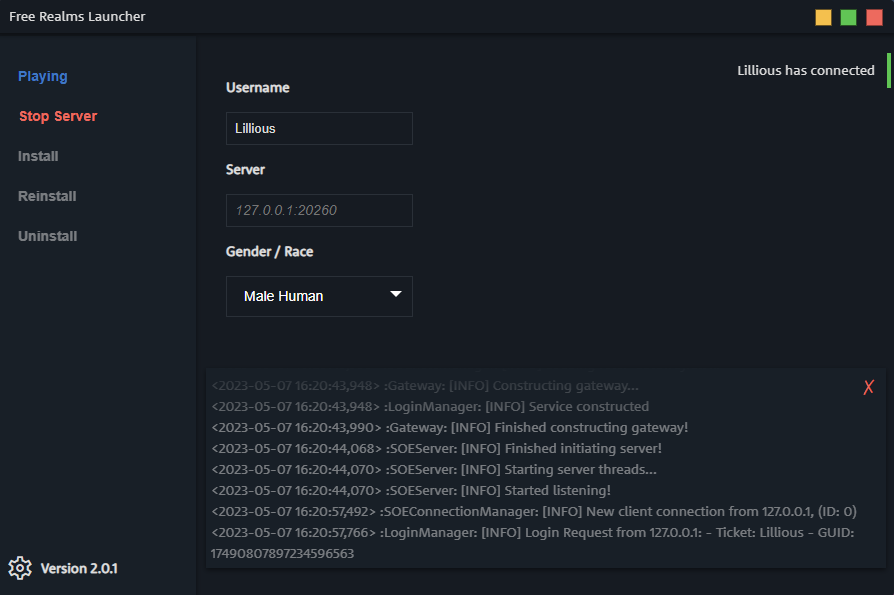
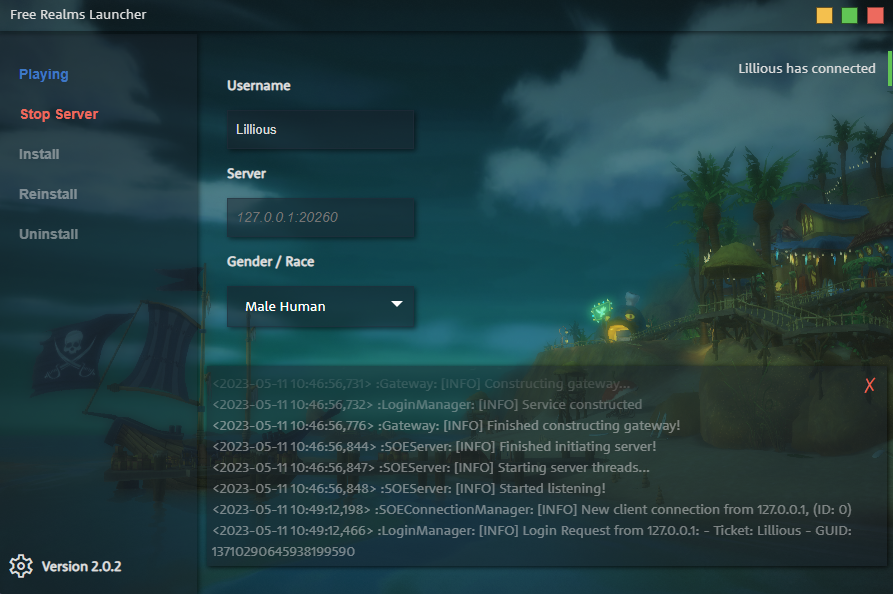
v2.0.2

diff --git a/src/www/js/script.js b/src/www/js/script.js
@@ -7,12 +7,64 @@ const { exec } = require('child_process');
 const close = document.getElementById('close');
 const minimize = document.getElementById('minimize');
 const maximize = document.getElementById('maximize');
-close.addEventListener('click', () => {
-    exec('taskkill /IM OSFRServer.exe /F', (err, stdout, stderr) => {
-        if (err) {
-            Notification.show('error', 'Failed to stop server');
+// Busy flag to prevent unwanted actions while the application is busy
+var busy = false;
+
+const Notification = {
+    show(mode, message, verbose) {
+        if (verbose) return log(mode, message);
+        log(mode, message);
+        const container = document.getElementById('content');
+        const NotificationContainer = document.createElement('div');
+        const NotificationContent = document.createElement('div');
+        NotificationContainer.classList.add('notification-bar');
+        NotificationContent.classList.add('notification-content');
+        NotificationContent.innerHTML = message;
+        NotificationContainer.appendChild(NotificationContent);
+        NotificationContainer.style.marginTop = `${50 * document.getElementsByClassName('notification-bar').length}px`;
+        switch (mode) {
+            case 'success':
+                NotificationContainer.style.borderRight = '4px solid #61c555';
+                break;
+            case 'error':
+                NotificationContainer.style.borderRight = '4px solid #ed6a5e';
+                break;
+            case 'information':
+                NotificationContainer.style.borderRight = '4px solid #3f78c4';
+                break;
+            case 'warn':
+                NotificationContainer.style.borderRight = '4px solid #f4c04e';
+                break;
+            default:
+                NotificationContainer.style.borderRight = '4px solid #3f78c4';
+                break;
         }
-        Notification.show('success', 'Server stopped');
+        container.appendChild(NotificationContainer);
+        this.clear(NotificationContainer);
+    },
+    clear(notification) {
+        setTimeout(() => {
+            const notifications = document.getElementsByClassName('notification-bar');
+            for (let i = 0; i < notifications.length; i++) {
+                notifications[i].style.marginTop = `${50 * i - 50}px`;
+            }
+            notification.remove();
+        }, 3000);
+    }
+}
+
+// Prevent abnormal closing of the application
+window.addEventListener('keydown', (e) => {
+    const { key, altKey } = e;
+    if (key === 'F4' && altKey) {
+        e.preventDefault();   
+        Notification.show('warn', 'User attempted to close the application abnormally', true);
+    }
+});
+close.addEventListener('click', () => {
+    if (busy) return Notification.show('error', 'Application is busy, please wait');
+    exec('taskkill /IM OSFRServer.exe /F', (err, stdout, stderr) => {
+        Notification.show('information', 'Application has been closed peacefully', true);
         ipcRenderer.send('close');
     });
 });
@@ -139,48 +191,6 @@ setInterval(() => {
     CheckRunning();
 }, 1000);
 
-const Notification = {
-    show(mode, message) {
-        log(mode, message);
-        const container = document.getElementById('content');
-        const NotificationContainer = document.createElement('div');
-        const NotificationContent = document.createElement('div');
-        NotificationContainer.classList.add('notification-bar');
-        NotificationContent.classList.add('notification-content');
-        NotificationContent.innerHTML = message;
-        NotificationContainer.appendChild(NotificationContent);
-        NotificationContainer.style.marginTop = `${50 * document.getElementsByClassName('notification-bar').length}px`;
-        switch (mode) {
-            case 'success':
-                NotificationContainer.style.borderRight = '4px solid #61c555';
-                break;
-            case 'error':
-                NotificationContainer.style.borderRight = '4px solid #ed6a5e';
-                break;
-            case 'information':
-                NotificationContainer.style.borderRight = '4px solid #3f78c4';
-                break;
-            case 'warn':
-                NotificationContainer.style.borderRight = '4px solid #f4c04e';
-                break;
-            default:
-                NotificationContainer.style.borderRight = '4px solid #3f78c4';
-                break;
-        }
-        container.appendChild(NotificationContainer);
-        this.clear(NotificationContainer);
-    },
-    clear(notification) {
-        setTimeout(() => {
-            const notifications = document.getElementsByClassName('notification-bar');
-            for (let i = 0; i < notifications.length; i++) {
-                notifications[i].style.marginTop = `${50 * i - 50}px`;
-            }
-            notification.remove();
-        }, 3000);
-    }
-}
-
 function log(mode, message) {
     if (!fs.existsSync(path.join(__dirname, '..', '..', 'logs'))) {
         fs.mkdirSync(path.join(__dirname, '..', '..', 'logs'), { recursive: true });
@@ -188,7 +198,7 @@ function log(mode, message) {
 
     fs.appendFileSync(path.join(__dirname, '..', '..', 'logs/log.txt'), `${new Date().toLocaleString()} [${mode.toUpperCase()}] ${message}\n`, (err) => {
         if (err) {
-            console.error(err);
+            Notification.show('error', 'Failed to write to log file');
         }
     });
 }
@@ -196,6 +206,7 @@ function log(mode, message) {
 // Porgress bar controls
 const ProgressBar = {
     show() {
+        busy = true;
         progressBarContainer.style.display = 'block';
     },
     hide() {
@@ -282,9 +293,11 @@ uninstallbtn.addEventListener('click', async () => {
 });
 
 function install () {
+    busy = true;
     if (fs.existsSync(path.join(__dirname, '..', '..', 'Server') || path.join(__dirname, '..', '..', 'Client'))) {
         Notification.show('error', 'An installation already exists');
         installbtn.disabled = true;
+        busy = false;
         return;
     }
     disableAll();
@@ -296,6 +309,7 @@ function install () {
     }).then(() => {
         Notification.show('success', 'Server download complete');
         Notification.show('information', 'Extracting Server files');
+        busy = true;
         File.extract('./temp_server/Server.zip', path.join(__dirname, '..', '..'))
         .then(() => {
             Notification.show('success', 'Extraction complete');
@@ -308,6 +322,7 @@ function install () {
                 if (err) {
                     Notification.show('error', 'Failed to remove temporary files');
                 }
+                busy = false;
             });
             serverbtn.disabled = false;
         });
@@ -316,9 +331,11 @@ function install () {
             Notification.show('error', err);
             installbtn.disabled = false;
             Notification.show('error', 'Failed to download server files');
+            busy = false;
         }
     }).finally(() => {
         // Download client files
+        busy = true;
         download({
             url: 'https://files.lilliousnetworks.com/Client.zip',
             fileName: './Client.zip',
@@ -326,9 +343,11 @@ function install () {
         }).then(() => {
             Notification.show('success', 'Client download complete');
             Notification.show('information', 'Extracting client files');
+            busy = true;
             File.extract('./temp_client/Client.zip', path.join(__dirname, '..', '..'))
             .then(() => {
                 Notification.show('success', 'Extraction complete');
+                busy = false;
             }).catch((err) => {
                 if (err) {
                     Notification.show('error', 'Failed to extract client files');
@@ -338,6 +357,7 @@ function install () {
                     if (err) {
                         Notification.show('error', 'Failed to remove temporary files');
                     }
+                    busy = false;
                 });
                 playbtn.disabled = false;
                 reinstallbtn.disabled = false;
@@ -346,8 +366,8 @@ function install () {
         }).catch((err) => {
             if (err) {
                 installbtn.disabled = false;
-                Notification.show('error', err);
                 Notification.show('error', 'Failed to download client files');
+                busy = false;
             }
         });
     });
@@ -358,7 +378,7 @@ function reinstall () {
         install();
     }).catch((err) => {
         if (err) {
-            console.log(err);
+            // Do nothing if uninstall fails because it will be handled by the uninstall function
         }
     });
 }
@@ -393,7 +413,8 @@ serverbtn.addEventListener('click', () => {
             cwd: path.join(__dirname, '..', '..', 'Server')
         }, (err, stdout, stderr) => {});
         process.stderr.on('data', (data) => {
-            console.log(data);
+            Notification.show('error', `An error occured, check logs for more information`);
+            Notification.show('error', data, true);
         });
         process.stdout.on('data', (data) => {
             console.log(data);
@@ -418,7 +439,7 @@ serverbtn.addEventListener('click', () => {
             }
         });
         process.on('error', (err) => {
-            console.log(err);
+            Notification.show('error', err, true);
         });
     } else if (serverbtn.innerText == 'Stop Server') {
         exec('taskkill /IM OSFRServer.exe /F', (err, stdout, stderr) => {
@@ -450,11 +471,11 @@ playbtn.addEventListener('click', () => {
         cwd: path.join(__dirname, '..', '..', 'Client')
     }, (err, stdout, stderr) => {
         if (err) {
-            console.log(err);
+            Notification.show('error', err, true);
         }
     });
     process.stderr.on('data', (data) => {
-        console.log(data);
+        Notification.show('error', data, true);
     });
     process.stdout.on('data', (data) => {
         console.log(data);

diff --git a/src/www/css/style.css b/src/www/css/style.css
@@ -23,7 +23,11 @@ html {
     scroll-behavior: smooth;
 }
 body {
-    background: #161b22;
+    background: url(../img/background.png);
+    background-size:calc(100% + 17px) calc(100% + 17px);
+    background-position: -8px -8px;
+    background-repeat: no-repeat;
+    background-attachment: fixed;
     font-family: RooneySans;
     font-size: 14px;
     line-height: 1.5;
@@ -147,9 +151,10 @@ button:not(#minimize, #maximize, #close) {
 }
 button:not(#minimize, #maximize, #close, :disabled):hover {
     background: #2b313b;
+    background: rgba(24, 31, 39, 0.5);
 }
 button:not(#minimize, #maximize, #close, :disabled):active {
-    background: #1e2229;
+    background: rgba(24, 31, 39, 0.6);
 }
 button:not(#minimize, #maximize, #close):disabled {
     opacity: 0.5;
@@ -162,8 +167,8 @@ button:not(#minimize, #maximize, #close):disabled {
     top: 38px;
     bottom: 0;
     width: 200px;
-    box-shadow: 0 2px 5px rgba(0, 0, 0, 0.5);
-    background: #181f27;
+    box-shadow: 2px 0px 5px rgba(0, 0, 0, 0.5);
+    background: rgba(24, 31, 39, 0.5);
 }
 #side-bar button {
     width: 100%;
@@ -203,13 +208,15 @@ button:not(#minimize, #maximize, #close):disabled {
     right: 0;
     height: 22px;
     background: #181f27;
+    background: rgba(24, 31, 39, 0.5);
     z-index: 1000;
     box-shadow: 3px 0px 5px rgba(0, 0, 0, 0.5);
-    border-left: 1px solid rgba(0, 0, 0, 0.3);
 }
 #progress {
     height: 100%;
     background: #61c555;
+    background: linear-gradient(to right, #61c555, #238636);
+    opacity: 0.8;
     width: 0;
     transition: 0.1s;
 }
@@ -256,8 +263,8 @@ button:not(#minimize, #maximize, #close):disabled {
     left: 10px;
     right: 10px;
     height: 200px;
-    background: #181f27;
-    box-shadow: 0 2px 5px rgba(0, 0, 0, 0.5);
+    background: rgba(24, 31, 39, 0.5);
+    box-shadow: 1px 1px 5px rgba(0, 0, 0, 0.8);
 }
 #console #console-content {
     color: #dcdcdc;
@@ -290,10 +297,12 @@ button:not(#minimize, #maximize, #close):disabled {
 input {
     transition: ease-in-out 0.1s;
     outline: none;
-    background: transparent;
-    border: 1px solid #2a3038;
+    background: rgba(24, 31, 39, 0.5);
+    box-shadow: 2px 2px 5px rgba(0, 0, 0, 0.5);
+    border: 1px solid rgba(36, 46, 59, 0.5);
     color: #dcdcdc;
     padding: 8px;
+    height: 21px;
 }
 input:hover:not(:focus) {
     border: 1px solid #434c58;
@@ -312,11 +321,13 @@ input:focus {
 
 .custom-select {
     position: relative;
-    font-family: Arial;
-    border: 1px solid #2a3038;
+    border: 1px solid rgba(36, 46, 59, 0.5);
+    box-shadow: 2px 2px 5px rgba(0, 0, 0, 0.5);
+    background: rgba(24, 31, 39, 0.5);
 }
 
 .custom-select:hover:not(:focus) {
+    transition: ease-in-out 0.1s;
     border: 1px solid #434c58;
 }
 .custom-select select {
@@ -348,9 +359,9 @@ input:focus {
 }
 .select-items {
     position: absolute;
-    background: #161b22;
-    border-left: 1px solid #2a3038;
-    border-right: 1px solid #2a3038;
+    background: rgba(24, 31, 39, 0.5);
+    border-left: 1px solid rgba(36, 46, 59, 0.5);
+    border-right: 1px solid rgba(36, 46, 59, 0.5);
     top: 100%;
     left: 0;
     right: 0;
@@ -360,7 +371,8 @@ input:focus {
     display: none;
 }
 .select-items div:hover, .same-as-selected {
-    background: #181f27;
+    transition: ease-in-out 0.1s;
+    background: rgba(63, 121, 196, 0.3)
 }
 
 /* fallback */

diff --git a/src/www/index.html b/src/www/index.html
@@ -28,7 +28,7 @@
         </div>
         <!-- Sidebar -->
         <div id="side-bar">
-            <p id="version">Version 2.0.1</p>
+            <p id="version">Version 2.0.2</p>
             <div id="menuitems">
                 <button id="play" disabled>Play</button>
                 <button id="server" disabled>Start Server</button>
